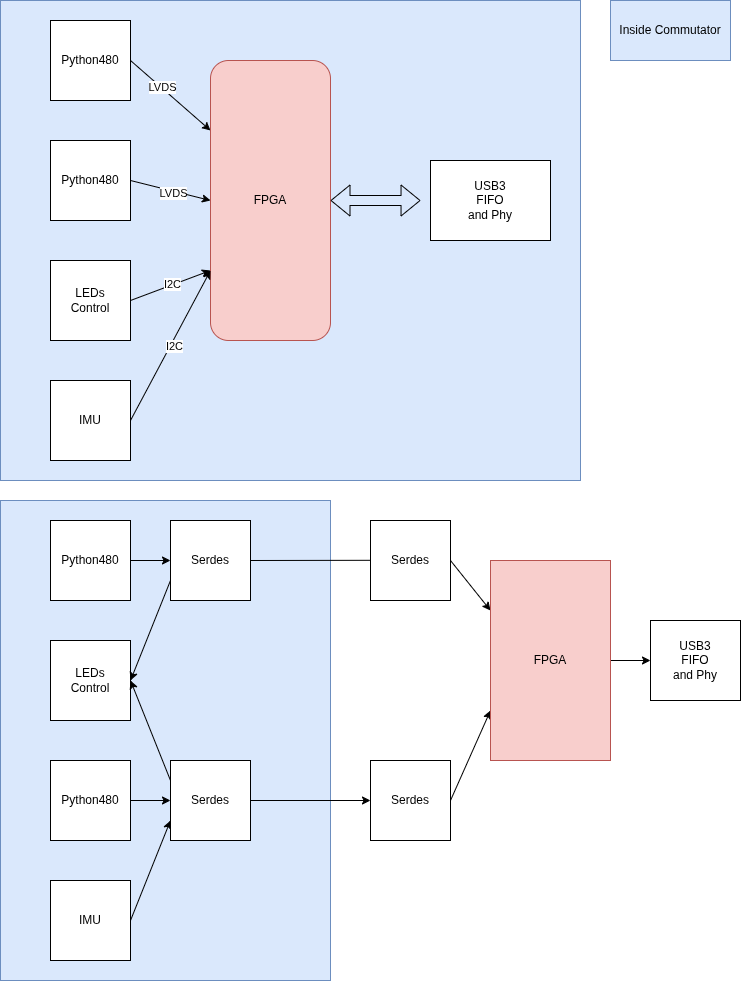
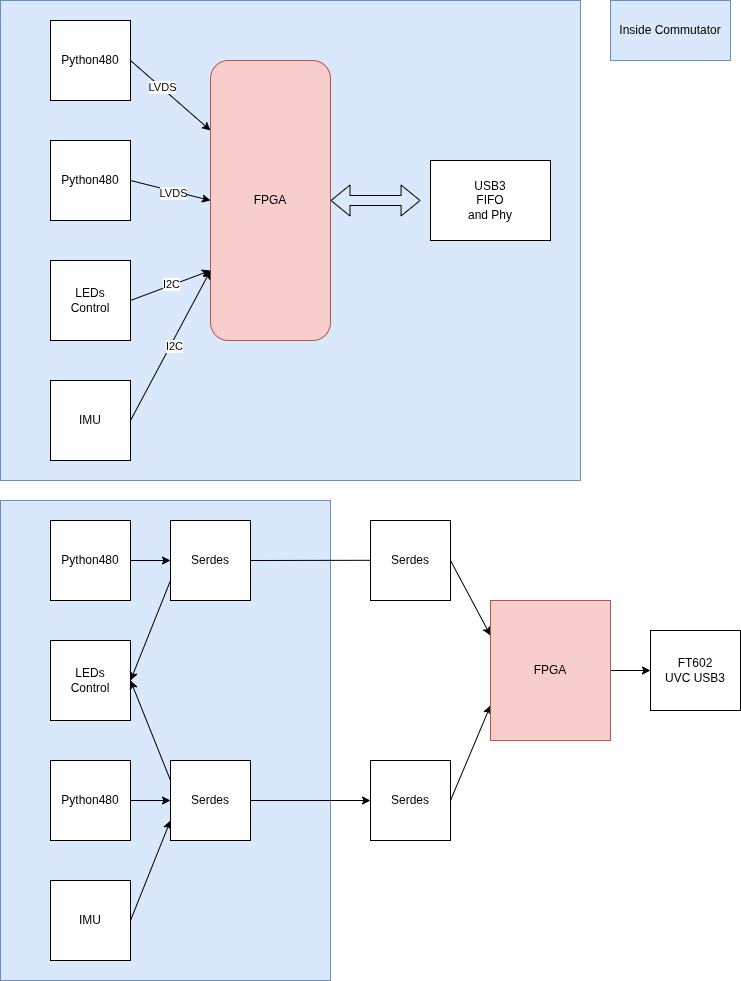
Update 2026-02-06B

diff --git a/docs/Y2026/Y2026-02.md b/docs/Y2026/Y2026-02.md
@@ -2,6 +2,12 @@
 
 ## 2026-02-06 🌐 🎬 💾 📚 📑 🔬🦠🧪
 
+### Camera In Commutator
+
+![](../diagrams/2026/Fiber_Photometry03.png)
+
+---
+
 ### CEBRA Consistent EmBeddings of high-dimensional Recordings using Auxiliary variables
 
 ![](../images/2026/Screenshot%20from%202026-02-06%2015-47-34.png)
